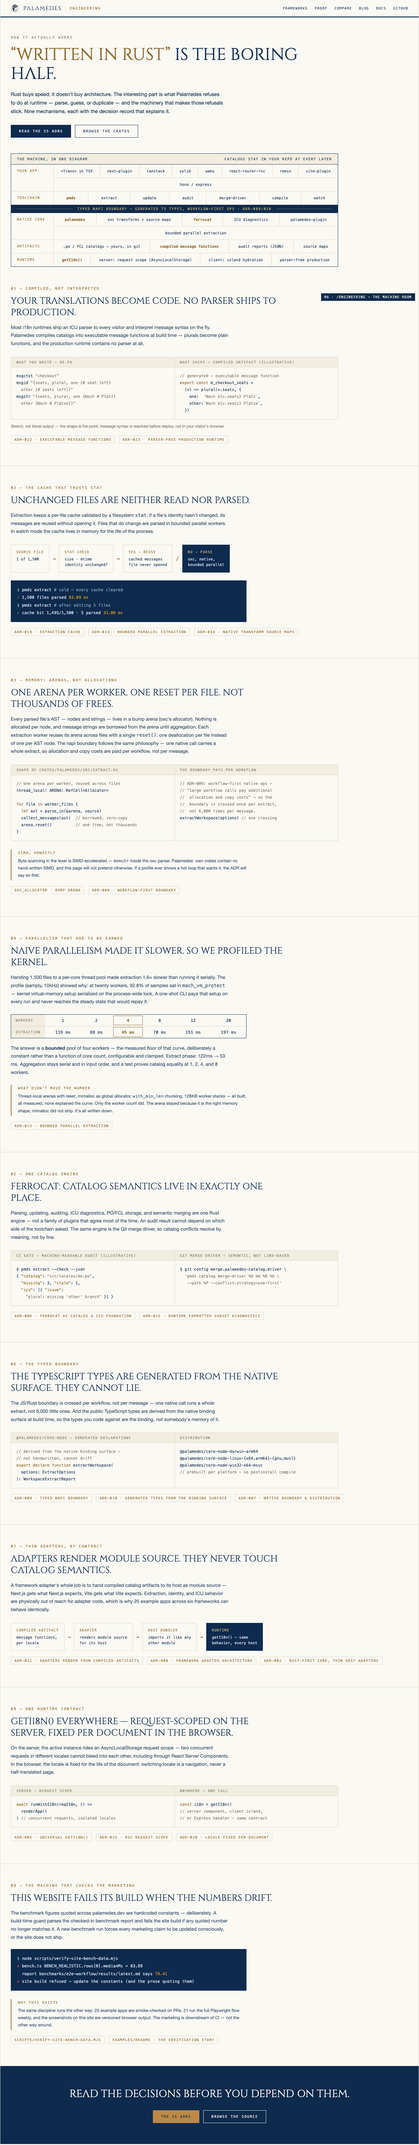
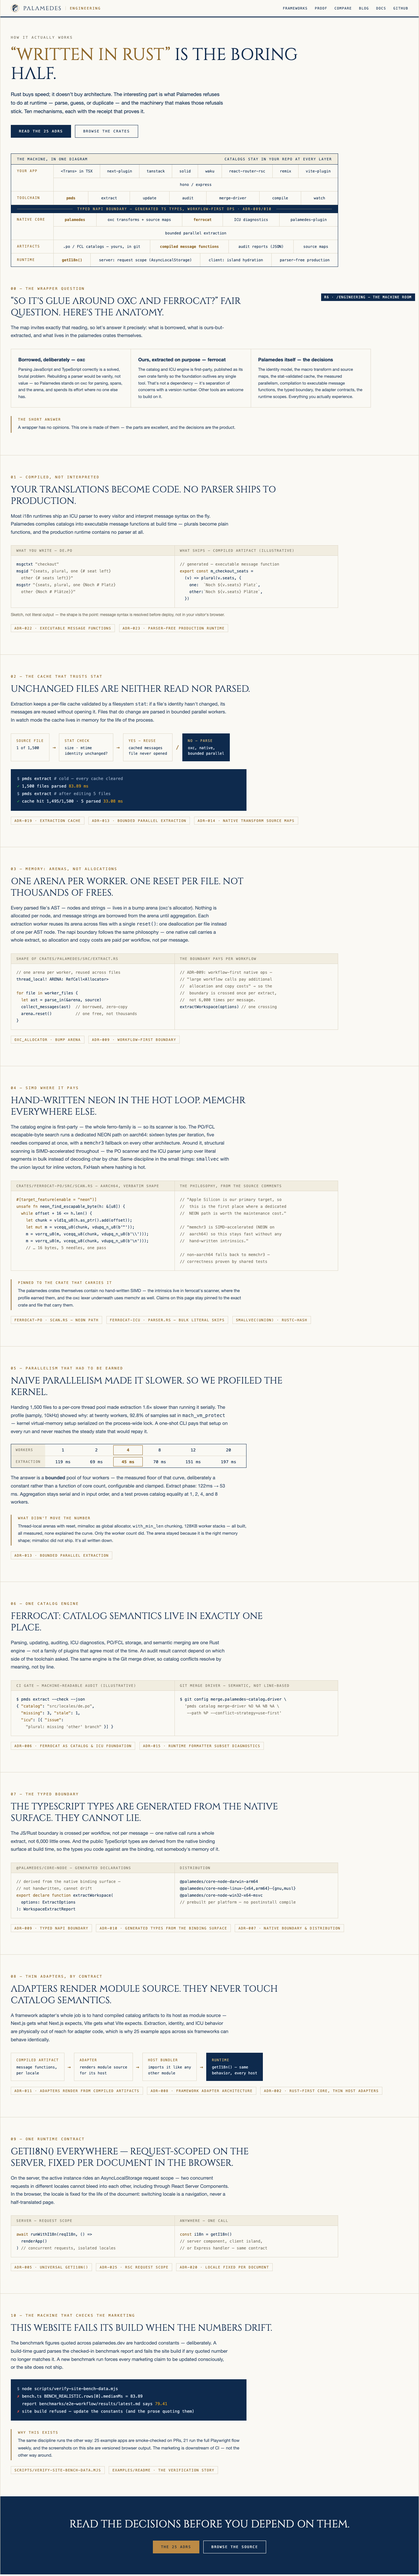
docs(site): /engineering — SIMD section and the wrapper question
ferrocat is first-party, so its NEON path counts: new 'SIMD where it pays'
section with the verbatim aarch64 intrinsics from ferrocat-po's scanner and
the memchr structural-scan philosophy, attribution pinned to the exact
crate. New 00 preamble answers 'is Palamedes just glue around oxc and
ferrocat?' head-on: borrowed deliberately / extracted on purpose / the
decisions live in palamedes itself.

Changed region(s): [[0.0, 0.0, 1.0, 1.0], [0.5938, 0.8416, 0.625, 0.8727]]

diff --git a/site/homepage-revamp-mocks/r6-engineering.html b/site/homepage-revamp-mocks/r6-engineering.html
@@ -73,6 +73,11 @@
   .term-body { background: var(--ink); color: #dbe4ef; padding: 16px 18px; font-family: var(--mono); font-size: 12.5px; line-height: 1.85; }
   .term .p { color: #8fa3bd; } .term .ok { color: var(--ok); } .term .t { color: var(--warn); } .term .bad { color: #e5534b; }
 
+  .diffs { margin-top: 28px; display: grid; grid-template-columns: 1fr 1fr 1fr; gap: 1px; background: var(--hair); border: 1px solid var(--hair); max-width: 1100px; }
+  .diff { background: var(--paper); padding: 22px; }
+  .diff .t { font-size: 14.5px; font-weight: 600; line-height: 1.4; }
+  .diff p { margin-top: 10px; font-size: 12.5px; line-height: 1.65; color: #2c4463; }
+
   .sheetlike { margin-top: 26px; max-width: 720px; border: 1px solid var(--ink); }
   .ptable { width: 100%; border-collapse: collapse; }
   .ptable th { font-family: var(--mono); font-size: 10px; letter-spacing: 0.16em; text-transform: uppercase; color: var(--gray); background: var(--track); text-align: left; padding: 10px 14px; font-weight: 400; width: 1%; white-space: nowrap; border-bottom: 1px solid var(--hair); }
@@ -112,8 +117,8 @@
       <p class="lede">
         Rust buys speed; it doesn&rsquo;t buy architecture. The interesting part
         is what Palamedes refuses to do at runtime — parse, guess, or
-        duplicate — and the machinery that makes those refusals stick. Nine
-        mechanisms, each with the decision record that explains it.
+        duplicate — and the machinery that makes those refusals stick. Ten
+        mechanisms, each with the receipt that proves it.
       </p>
       <div class="ctas">
         <a class="btn primary" href="#">Read the 25 ADRs</a>
@@ -146,6 +151,53 @@
         <span class="lcells"><span class="hl">getI18n()</span><span>server: request scope (AsyncLocalStorage)</span><span>client: island hydration</span><span>parser-free production</span></span>
       </div>
     </div>
+
+    <!-- 00 — the wrapper question -->
+    <section class="section">
+      <div class="num">00 — The wrapper question</div>
+      <h2>&ldquo;So it's glue around oxc and ferrocat?&rdquo; Fair question. Here's the anatomy.</h2>
+      <p class="slede">
+        The map invites exactly that reading, so let's answer it precisely:
+        what is borrowed, what is ours-but-extracted, and what lives in the
+        palamedes crates themselves.
+      </p>
+      <div class="diffs">
+        <div class="diff">
+          <div class="t">Borrowed, deliberately — oxc</div>
+          <p>
+            Parsing JavaScript and TypeScript correctly is a solved, brutal
+            problem. Rebuilding a parser would be vanity, not value — so
+            Palamedes stands on oxc for parsing, spans, and the arena, and
+            spends its effort where no one else has.
+          </p>
+        </div>
+        <div class="diff">
+          <div class="t">Ours, extracted on purpose — ferrocat</div>
+          <p>
+            The catalog and ICU engine is first-party, published as its own
+            crate family so the foundation outlives any single tool. That's
+            not a dependency — it's separation of concerns with a version
+            number. Other tools are welcome to build on it.
+          </p>
+        </div>
+        <div class="diff">
+          <div class="t">Palamedes itself — the decisions</div>
+          <p>
+            The identity model, the macro transform and source maps, the
+            stat-validated cache, the measured parallelism, compilation to
+            executable message functions, the typed boundary, the adapter
+            contracts, the runtime scopes. Everything you actually experience.
+          </p>
+        </div>
+      </div>
+      <div class="rail">
+        <div class="h">The short answer</div>
+        <p>
+          A wrapper has no opinions. This one is made of them — the parts are
+          excellent, and the decisions are the product.
+        </p>
+      </div>
+    </section>
 
     <!-- 01 — parser-free production -->
     <section class="section">
@@ -249,22 +301,68 @@ thread_local! ARENA: RefCell&lt;Allocator&gt;
 extractWorkspace(options) <span class="dim">// one crossing</span></pre>
         </div>
       </div>
-      <div class="rail">
-        <div class="h">SIMD, honestly</div>
-        <p>
-          Byte scanning in the lexer is SIMD-accelerated — <code>memchr</code>
-          inside the oxc parser. Palamedes' own crates contain no hand-written
-          SIMD, and this page will not pretend otherwise. If a profile ever
-          shows a hot loop that wants it, the ADR will say so first.
-        </p>
-      </div>
       <a class="adrchip" href="#">oxc_allocator · bump arena</a>
       <a class="adrchip" href="#">ADR-009 · workflow-first boundary</a>
     </section>
 
+    <!-- 04 — SIMD -->
+    <section class="section">
+      <div class="num">04 — SIMD where it pays</div>
+      <h2>Hand-written NEON in the hot loop. memchr everywhere else.</h2>
+      <p class="slede">
+        The catalog engine is first-party — the whole ferro-family is — so its
+        scanner is too. The PO/FCL escapable-byte search runs a dedicated NEON
+        path on aarch64: sixteen bytes per iteration, five needles compared at
+        once, with a <code>memchr3</code> fallback on every other
+        architecture. Around it, structural scanning is SIMD-accelerated
+        throughout — the PO scanner and the ICU parser jump over literal
+        segments in bulk instead of decoding char by char. Same discipline in
+        the small things: <code>smallvec</code> with the union layout for
+        inline vectors, FxHash where hashing is hot.
+      </p>
+      <div class="code2">
+        <div class="codecol">
+          <div class="head">crates/ferrocat-po/src/scan.rs — aarch64, verbatim shape</div>
+          <pre><span class="kw">#[target_feature(enable = "neon")]</span>
+<span class="kw">unsafe fn</span> neon_find_escapable_byte(h: &amp;[u8]) {
+  <span class="kw">while</span> offset + 16 &lt;= h.len() {
+    <span class="kw">let</span> chunk = vld1q_u8(h.as_ptr().add(offset));
+    <span class="kw">let mut</span> m = vceqq_u8(chunk, vdupq_n_u8(b'"'));
+    m = vorrq_u8(m, vceqq_u8(chunk, vdupq_n_u8(b'\\')));
+    m = vorrq_u8(m, vceqq_u8(chunk, vdupq_n_u8(b'\n')));
+    <span class="dim">// … 16 bytes, 5 needles, one pass</span></pre>
+        </div>
+        <div class="codecol">
+          <div class="head">The philosophy, from the source comments</div>
+          <pre><span class="dim">// "Apple Silicon is our primary target, so
+//  this is the first place where a dedicated
+//  NEON path is worth the maintenance cost."</span>
+
+<span class="dim">// "memchr3 is SIMD-accelerated (NEON on
+//  aarch64) so this stays fast without any
+//  hand-written intrinsics."</span>
+
+<span class="dim">// non-aarch64 falls back to memchr3 —
+// correctness proven by shared tests</span></pre>
+        </div>
+      </div>
+      <div class="rail">
+        <div class="h">Pinned to the crate that carries it</div>
+        <p>
+          The palamedes crates themselves contain no hand-written SIMD — the
+          intrinsics live in ferrocat's scanner, where the profile earned
+          them, and the oxc lexer underneath uses memchr as well. Claims on
+          this page stay pinned to the exact crate and file that carry them.
+        </p>
+      </div>
+      <a class="adrchip" href="#">ferrocat-po · scan.rs — NEON path</a>
+      <a class="adrchip" href="#">ferrocat-icu · parser.rs — bulk literal skips</a>
+      <a class="adrchip" href="#">smallvec(union) · rustc-hash</a>
+    </section>
+
     <!-- 04 — parallelism, earned -->
     <section class="section">
-      <div class="num">04 — Parallelism that had to be earned</div>
+      <div class="num">05 — Parallelism that had to be earned</div>
       <h2>Naive parallelism made it slower. So we profiled the kernel.</h2>
       <p class="slede">
         Handing 1,500 files to a per-core thread pool made extraction 1.6×
@@ -302,7 +400,7 @@ extractWorkspace(options) <span class="dim">// one crossing</span></pre>
 
     <!-- 05 — ferrocat -->
     <section class="section">
-      <div class="num">05 — One catalog engine</div>
+      <div class="num">06 — One catalog engine</div>
       <h2>ferrocat: catalog semantics live in exactly one place.</h2>
       <p class="slede">
         Parsing, updating, auditing, ICU diagnostics, PO/FCL storage, and
@@ -333,7 +431,7 @@ extractWorkspace(options) <span class="dim">// one crossing</span></pre>
 
     <!-- 04 — napi boundary -->
     <section class="section">
-      <div class="num">06 — The typed boundary</div>
+      <div class="num">07 — The typed boundary</div>
       <h2>The TypeScript types are generated from the native surface. They cannot lie.</h2>
       <p class="slede">
         The JS/Rust boundary is crossed per workflow, not per message — one
@@ -366,7 +464,7 @@ extractWorkspace(options) <span class="dim">// one crossing</span></pre>
 
     <!-- 05 — adapters as renderers -->
     <section class="section">
-      <div class="num">07 — Thin adapters, by contract</div>
+      <div class="num">08 — Thin adapters, by contract</div>
       <h2>Adapters render module source. They never touch catalog semantics.</h2>
       <p class="slede">
         A framework adapter's whole job is to hand compiled catalog artifacts
@@ -391,7 +489,7 @@ extractWorkspace(options) <span class="dim">// one crossing</span></pre>
 
     <!-- 06 — runtime scope -->
     <section class="section">
-      <div class="num">08 — One runtime contract</div>
+      <div class="num">09 — One runtime contract</div>
       <h2>getI18n() everywhere — request-scoped on the server, fixed per document in the browser.</h2>
       <p class="slede">
         On the server, the active instance rides an AsyncLocalStorage request
@@ -421,7 +519,7 @@ extractWorkspace(options) <span class="dim">// one crossing</span></pre>
 
     <!-- 07 — the verification machine -->
     <section class="section" style="border-bottom: 0;">
-      <div class="num">09 — The machine that checks the marketing</div>
+      <div class="num">10 — The machine that checks the marketing</div>
       <h2>This website fails its build when the numbers drift.</h2>
       <p class="slede">
         The benchmark figures quoted across palamedes.dev are hardcoded

diff --git a/site/homepage-revamp-concept.md b/site/homepage-revamp-concept.md
@@ -656,8 +656,11 @@ magic named. Hero: *"«Written in Rust» is the boring half."* — Rust buys
 speed, not architecture; the page is about what Palamedes refuses to do at
 runtime. Opens with the **machine map** (five layers: app → toolchain →
 native core → artifacts → runtime, with the typed napi boundary as an ink
-band between toolchain and core), then nine mechanisms, each with a real
-artifact and ADR chips:
+band between toolchain and core), then a **00 preamble answering the
+wrapper question** ("so it's glue around oxc and ferrocat?" — borrowed
+deliberately / ours-but-extracted / the decisions live in palamedes itself;
+closing line: "A wrapper has no opinions. This one is made of them.") and
+ten mechanisms, each with a real artifact and ADR chips:
 
 1. Compiled, not interpreted — catalogs become executable message
    functions; no ICU parser ships to production (ADR-022/023). PO-vs-artifact
@@ -667,27 +670,32 @@ artifact and ADR chips:
 3. Memory: arenas, not allocations — AST + strings in oxc's bump arena,
    thread-local arena reused with one `reset()` per file (verified in
    `crates/palamedes/src/extract.rs`), workflow-first boundary against copy
-   costs. Includes the **"SIMD, honestly" rail**: byte scanning is
-   SIMD-accelerated via `memchr` inside the oxc parser; Palamedes' own
-   crates contain no hand-written SIMD and the page says so — mimalloc was
-   tried during the ADR-013 investigation and deliberately not shipped, so
-   it is likewise not claimed.
-4. Parallelism that had to be earned — the ADR-013 story rendered whole:
+   costs. (mimalloc was tried during the ADR-013 investigation and
+   deliberately not shipped, so it is not claimed.)
+4. SIMD where it pays — **hand-written NEON in ferrocat-po's
+   escapable-byte scanner** (16 bytes per iteration, five needles at once,
+   `memchr3` fallback on other architectures — ferrocat is first-party, so
+   the intrinsics are too, source comment quoted verbatim); `memchr2/3`
+   structural scanning throughout the PO scanner and ICU parser ("literal
+   segments skipped in bulk"); `smallvec` union layout + FxHash. The
+   "pinned to the crate that carries it" rail keeps attribution exact:
+   the palamedes crates themselves contain no hand-written SIMD.
+5. Parallelism that had to be earned — the ADR-013 story rendered whole:
    naive per-core Rayon was 1.6× slower, samply @ 10 kHz found 92.8% of
    samples in `mach_vm_protect`, the shipped answer is a bounded pool of
    four (a measured constant, not a core count), with the real worker-count
    table (119/69/**45**/70/151/197 ms) and the honest "what didn't move the
    number" list.
-5. ferrocat — one catalog engine; audit JSON + merge-driver command
+6. ferrocat — one catalog engine; audit JSON + merge-driver command
    (ADR-006/015).
-4. The typed boundary — workflow-first napi calls; TS types generated from
+7. The typed boundary — workflow-first napi calls; TS types generated from
    the binding surface, "they cannot lie"; per-platform prebuilds
    (ADR-009/010/007).
-5. Thin adapters by contract — adapters render module source from compiled
+8. Thin adapters by contract — adapters render module source from compiled
    artifacts, catalog semantics physically out of reach (ADR-011/008/002).
-6. One runtime contract — AsyncLocalStorage request scope, RSC entry scope,
+9. One runtime contract — AsyncLocalStorage request scope, RSC entry scope,
    locale fixed per document (ADR-005/025/020).
-7. The machine that checks the marketing — `verify-site-bench-data.mjs`
+10. The machine that checks the marketing — `verify-site-bench-data.mjs`
    fails the site build when quoted numbers drift from the checked report;
    "the marketing is downstream of CI."
 
